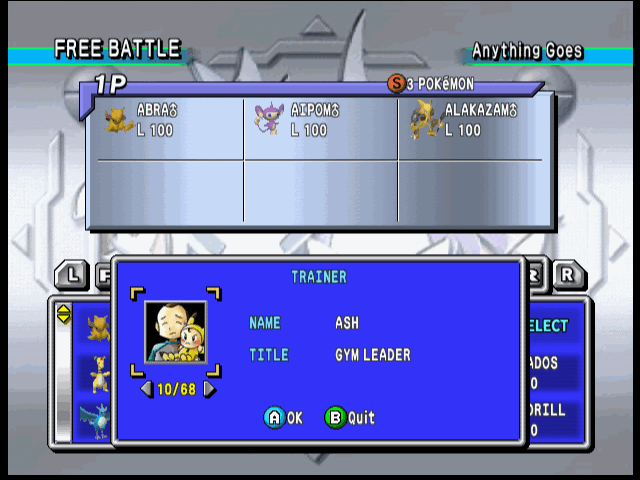
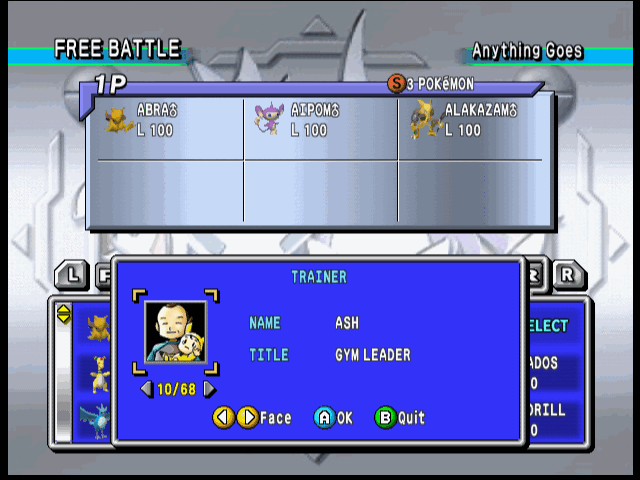
Changelog for v0.4.0
The guide's pictures of the trainer window and the versus card are retaken
with the faces in them, and the guide, the front page and the notes say
that this build has been run on a console.

diff --git a/mod/NOTES.md b/mod/NOTES.md
@@ -141,8 +141,10 @@ Plan: `C:\Users\Alex\.claude\plans\i-want-to-build-delightful-lecun.md`.
   - Not tried: a team with a Game Pak's Pokémon on it, where Edit POKéMON should sound
     the error and stay in the box.
 - An earlier build has been run on a real Nintendo 64 (reported 2026-10-12; which build,
-  the cart and whether an Expansion Pak was fitted are not recorded here). The build with
-  the editor on one of the team has not. Nothing has been run on standalone ares;
+  the cart and whether an Expansion Pak was fitted are not recorded here). So has the
+  build released as v0.4.0, which has the editor on one of the team and is the first
+  with the trainer pictures' second directory (reported 2026-10-13; what was tried, the
+  cart and the Expansion Pak are not recorded here either). Nothing has been run on standalone ares;
   BizHawk's Ares64 core is the same emulation core.
 - Known gaps: an edit lives in the list cell, so scrolling the rental far away and back
   before entering it loses the edit. An edit made on the team lives in the team's cell
@@ -1078,8 +1080,10 @@ and whoever has the ROM attaches the patch they built:
   which gives the same bytes every time. Four are shots the emulator tests take:
   `menu` is `edit_entry`, `editor` is `fields_shiny`, `moves` is `list_hidden_power`
   and `keyboard` is `keyboard_upper`. `team_menu`, `team`, `trainer` and `versus` were
-  taken by hand in one sitting, with three rentals on the team, so that they tell one
-  story: `versus` has to show the picture, name and title that `trainer` shows being
+  taken by hand in one sitting, with three rentals on the team (Abra, Aipom and
+  Alakazam), so that they tell one story; the
+  last two were taken again for v0.4.0 by a script through the tests' harness, with the
+  same team, the tenth in the ring, ASH and GYM LEADER: `versus` has to show the picture, name and title that `trainer` shows being
   chosen (the tests' own `versus_named` keeps the default picture, and beside the
   window it looks as if the choice had not been kept). Before a release,
   reduce the tests' fresh shots the same way and compare: a picture that no longer

diff --git a/mod/CHANGELOG.md b/mod/CHANGELOG.md
@@ -4,6 +4,31 @@ What changed in each release of the patch, newest first. A release's heading is 
 and the text under it is published as the release's notes; see "Releases" in
 [NOTES.md](NOTES.md).
 
+## v0.4.0
+
+Change Trainer now has every face of every trainer, where it had one each.
+
+- **Faces.** Most of the game's trainers have two or three pictures: pleased, upset,
+  composed. In the trainer window C Left and C Right go round them, wherever the cursor
+  is, and the line under the window shows the two buttons and "Face" whenever the
+  trainer has more than one. That makes 158 pictures to choose from, where there were
+  67.
+- **A better first face.** Stepping to a trainer used to show their first picture, which
+  for most is the upset one. Each now starts on the face they would meet you with.
+- Left and Right still step through the trainers, and the name and the title are as
+  they were.
+
+Things to know:
+
+- The face you choose is the one you keep, whoever wins: it does not change after a
+  battle, as the game's own trainers' faces do.
+- As before, a picture, name and title last until the console is switched off, and
+  Change Trainer has only been tried in Free Battle.
+- Nothing else is changed, and only rentals can be edited.
+
+Tested in BizHawk with its Ares64 core, with and without an Expansion Pak, and this
+release has been run on a real Nintendo 64.
+
 ## v0.3.0
 
 The editor and the trainer window now show the game's own pictures of the buttons, in

diff --git a/mod/README.md b/mod/README.md
@@ -196,8 +196,8 @@ checks the game's memory afterwards; see "Tests" in [NOTES.md](NOTES.md).
 - The original ROM still builds byte for byte from the same tree, and the patch applied
   to it reproduces the modified ROM.
 
-An earlier build has also been run on a real Nintendo 64. This build has not, so what it
-adds has only been through the emulator.
+This build has also been run on a real Nintendo 64, by hand; the checks listed above
+are the emulator's.
 
 Not tested: standalone ares, other emulators, the Stadium cups and Gym Leader Castle
 (they use the same entry screen), and the Japanese version.

diff --git a/.github/README.md b/.github/README.md
@@ -57,8 +57,8 @@ POKéMON TRAINER, until the console is switched off.
 It works in Free Battle and when registering a team, for either player, with or without
 an Expansion Pak, and a registered team keeps its edits. The save format is untouched.
 
-An earlier build has been run on a real Nintendo 64. The current release has been tested
-in BizHawk with its Ares64 core only.
+The current release has been run on a real Nintendo 64, and tested in BizHawk with its
+Ares64 core.
 
 ## This repository
 
